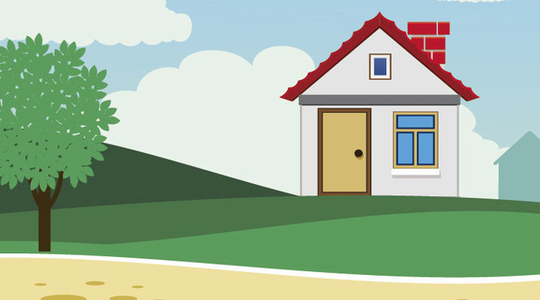
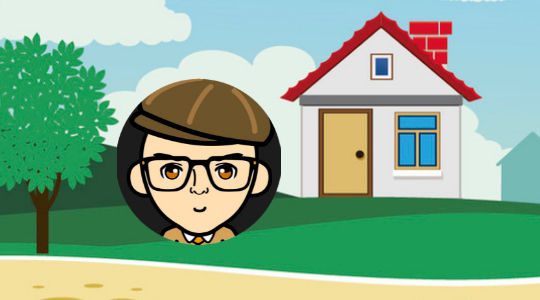
added mouseListener to npc pictures, fixed bugs in Hay Field and Airport. AB#952, AB#955, AB#915, AB#916

diff --git a/src/main/java/com/ChildrenOfSummer/SummerVacation/view/GamePanel.java b/src/main/java/com/ChildrenOfSummer/SummerVacation/view/GamePanel.java
@@ -1,6 +1,7 @@
 package com.ChildrenOfSummer.SummerVacation.view;
 
 import com.ChildrenOfSummer.SummerVacation.FileManager;
+import com.ChildrenOfSummer.SummerVacation.Input;
 import com.ChildrenOfSummer.SummerVacation.Player;
 import org.json.simple.JSONArray;
 
@@ -42,6 +43,7 @@ public class GamePanel extends JFrame {
     public JButton arriveSpecialSceneNextButton;
     public static JButton taskScreenNextButton;
     public JButton explorePlayerHouseButton;
+    public JButton goTOHayFieldNextButton;
     public JButton exploreHayFieldButton;
     public JButton hayfieldNextButton;
     public JButton findSaraButton;
@@ -66,6 +68,7 @@ public class GamePanel extends JFrame {
     public JPanel exploreButtonPanel;
     public static JPanel taskScreenNextButtonPanel;
     public JPanel explorePlayerHouseButtonPanel;
+    public JPanel goToHayFieldNextButtonPanel;
     public JPanel exploreHayFieldButtonPanel;
     public JPanel hayfieldNextButtonPanel;
     public JPanel findSaraButtonPanel;
@@ -151,10 +154,11 @@ public class GamePanel extends JFrame {
         userInputPanel = createJPanel(20,480,300,60,Color.black,true);
         headerContentPanel = createJPanel(0,0,800,30, new Color(0,0,0,0),true);
         directionButtonPanel = createJPanel(600,290,144,144,Color.black,true);
-        inventoryPanel = createJPanel(620,50,120,250,Color.black,true);
+        inventoryPanel = createJPanel(620,50,120,200,Color.black,true);
         largeTextAreaPanel = createJPanel(20,60,740,420,Color.black,true);
         exploreButtonPanel = createJPanel(600,450,180,40,new Color(0,0,0,0),true);
         explorePlayerHouseButtonPanel = createJPanel(600,450,180,40,new Color(0,0,0,0),true);
+        goToHayFieldNextButtonPanel = createJPanel(600,450,180,40,new Color(0,0,0,0),true);
         exploreHayFieldButtonPanel = createJPanel(600,450,180,40,new Color(0,0,0,0),true);
         taskScreenNextButtonPanel = createJPanel(600,420,180,40,new Color(0,0,0,0),true);
         hayfieldNextButtonPanel = createJPanel(600,420,180,40,new Color(0,0,0,0),true);
@@ -176,11 +180,12 @@ public class GamePanel extends JFrame {
         helpButton = createJButton("HELP",80,30,false,Color.white,Color.black);
         useButton = createJButton("use item",100,20,false,Color.white,Color.black);
         dropButton = createJButton("drop item",100,20,false,Color.white,Color.black);
-        exploreAirportButton = createJButton("GO TO AIRPORT",180,40,false,Color.white,Color.black);
+        exploreAirportButton = createJButton("GO TO AIRPORT",180,30,false,Color.white,Color.black);
         explorePlayerHouseButton = createJButton("GO TO Player's House",180,40,false,Color.white,Color.black);
         exploreHayFieldButton = createJButton("GO TO Hay Field",180,40,false,Color.white,Color.black);
         arriveSpecialSceneNextButton = createJButton("NEXT",100,30,false,Color.white,Color.black);
-        taskScreenNextButton = createJButton("GO TO TASK",180,40,false,Color.white,Color.black);
+        taskScreenNextButton = createJButton("Go Player's House",180,40,false,Color.white,Color.black);
+        goTOHayFieldNextButton = createJButton("Go Hay Field",180,40,false,Color.white,Color.black);
         hayfieldNextButton = createJButton("GO hay field",180,40,false,Color.white,Color.black);
         findSaraButton = createJButton("Look for Sara",180,40,false,Color.white,Color.black);
         findSuppliesButton = createJButton("Go Find Supplies",180,40,false,Color.white,Color.black);
@@ -292,7 +297,9 @@ public class GamePanel extends JFrame {
         seePeople.setForeground(Color.white);
         seePeople.setEditable(false);
         con.add(locationImgPanel);
+
         locationImgPanel.add(locationImgLabel);
+        Input.clickPic();
 
 
 
@@ -386,6 +393,7 @@ public class GamePanel extends JFrame {
         directionButtonPanel.setLayout(new BorderLayout());
 
 
+
         northButton.setPreferredSize(new Dimension(36,54));
         northButton.setBorderPainted(false);
         northButton.setContentAreaFilled(false);
@@ -440,8 +448,8 @@ public class GamePanel extends JFrame {
         JScrollPane pane = new JScrollPane(inventoryList);
 
         inventoryPanel.add(pane, BorderLayout.NORTH);
-        inventoryPanel.add(useButton, BorderLayout.WEST);
-        inventoryPanel.add(dropButton, BorderLayout.EAST);
+//        inventoryPanel.add(useButton, BorderLayout.WEST);
+//        inventoryPanel.add(dropButton, BorderLayout.EAST);
 
     }
 
@@ -537,17 +545,23 @@ public class GamePanel extends JFrame {
 
 
     public void taskThrowRockWithEnoughInventory() {
+        if(player1.getPlayerInventory().contains("rock")){
         mainLocationDescPanel.setVisible(false);
         userInputPanel.setVisible(false);
         directionButtonPanel.setVisible(false);
         inventoryPanel.setVisible(false);
+        locationImgPanel.setVisible(false);
         // String text =FileManager.txtFileToString("scene-one.txt");
 
         int reply1 = JOptionPane.showConfirmDialog(null, "You can throw a rock to escape. Do you want to?", "", JOptionPane.YES_NO_OPTION);
         if (reply1 == JOptionPane.YES_OPTION){
+            FileManager.getPlayerItems().remove("rock");
+            inventoryListModel.removeElement("rock");
             JOptionPane.showMessageDialog(null,"You've escaped from the farmer.","",JOptionPane.PLAIN_MESSAGE);
             taskScreen("scene-three-end");
+            FileManager.sceneWriter(true, "sceneThreePassed");
             hayfieldNextButtonPanel.setVisible(false);
+//            locationImgPanel.setVisible(false);
             con.add(findSaraButtonPanel);
             findSaraButtonPanel.add(findSaraButton);
         }
@@ -558,6 +572,20 @@ public class GamePanel extends JFrame {
 
         largeTextAreaPanel.add(largeTextArea);
         con.add(largeTextAreaPanel);
+        }
+        else{
+            JOptionPane.showMessageDialog(null,"You should explore the map to find something to throw at the farmer to distract him. \nA rock, maybe?", "", JOptionPane.PLAIN_MESSAGE);
+            mainTextPanel.setVisible(false);
+            mainLocationDescPanel.setVisible(false);
+            taskScreenNextButtonPanel.setVisible(false);
+            largeTextAreaPanel.setVisible(false);
+            locationImgPanel.setVisible(true);
+            mainLocationDescPanel.setVisible(true);
+            userInputPanel.setVisible(true);
+            directionButtonPanel.setVisible(true);
+            inventoryPanel.setVisible(true);
+            goToIslandButtonPanel.setVisible(false);
+        }
     }
     public static void taskPaddleRiverWithEnoughInventory() {
         if (player1.getPlayerInventory().contains("paddle")&&player1.getPlayerInventory().contains("raft") &&player1.getPlayerInventory().contains("shovel")){
@@ -587,7 +615,7 @@ public class GamePanel extends JFrame {
                 JOptionPane.showMessageDialog(null,"You paddle right. A massive boulder stops your progress... \nAfter dislodging your raft you are free.","",JOptionPane.PLAIN_MESSAGE);
             }
 
-            Object[] innerOrCenter = { "hug the inner bank", "center the raft" };
+            Object[] innerOrCenter = {"hug the inner bank", "center the raft"};
             int reply2 = JOptionPane.showOptionDialog(null, "The river curves left\nYou need to choose to hug the inner bank of center the raft in the river.",
                     "", JOptionPane.DEFAULT_OPTION, JOptionPane.PLAIN_MESSAGE, null, innerOrCenter, innerOrCenter[0]);
             if (reply2 == JOptionPane.YES_OPTION){
@@ -602,6 +630,11 @@ public class GamePanel extends JFrame {
                     "", JOptionPane.DEFAULT_OPTION, JOptionPane.PLAIN_MESSAGE, null, duckOrPaddle, duckOrPaddle[0]);
             if (reply3 == JOptionPane.YES_OPTION){
                 JOptionPane.showMessageDialog(null,"The branches puncture holes in your raft!","",JOptionPane.PLAIN_MESSAGE);
+                clearZoneViewPanel();
+                taskScreen("win-text");
+                FileManager.sceneWriter(true, "sceneFivePassed");
+                JOptionPane.showMessageDialog(null,"You won the game!", "", JOptionPane.PLAIN_MESSAGE);
+                exploreRiverButtonPanel.setVisible(false);
             }
             else{
                 JOptionPane.showMessageDialog(null,"You push the thorny branches out of the way of your raft.","",JOptionPane.PLAIN_MESSAGE);
@@ -609,11 +642,12 @@ public class GamePanel extends JFrame {
                 taskScreen("win-text");
                 FileManager.sceneWriter(true, "sceneFivePassed");
                 JOptionPane.showMessageDialog(null,"You won the game!", "", JOptionPane.PLAIN_MESSAGE);
+                exploreRiverButtonPanel.setVisible(false);
 //                largeTextAreaPanel.add(largeTextArea);
 //                con.add(largeTextAreaPanel);
 //                largeTextArea.setText(FileManager.txtFileToString("win-text.txt"));
 //                goToIslandButtonPanel.setVisible(false);
-                System.exit(0);
+  //              System.exit(0);
             }
 
         }

diff --git a/src/main/java/com.ChildrenOfSummer.SummerVacation/Input.java b/src/main/java/com.ChildrenOfSummer.SummerVacation/Input.java
@@ -6,7 +6,8 @@ import org.json.simple.JSONArray;
 import org.json.simple.JSONObject;
 
 import javax.swing.*;
-import java.awt.event.ActionEvent;
+import java.awt.event.MouseEvent;
+import java.awt.event.MouseListener;
 import java.awt.event.WindowAdapter;
 import java.awt.event.WindowEvent;
 import java.util.*;
@@ -165,16 +166,38 @@ public class Input {
             }
         });
 
-        gamePanel.useButton.addActionListener(e -> JOptionPane.showMessageDialog(null,"Nothing happens...", "", JOptionPane.PLAIN_MESSAGE));
+        gamePanel.myCurrentTaskButton.addActionListener(e -> {
+
+                    if (!FileManager.sceneReader("sceneOnePassed")) {
+                        JOptionPane.showMessageDialog(null, "Go to Airport, remember to collect something before go there. \nGood luck!", "", JOptionPane.PLAIN_MESSAGE);
+                    } else if (FileManager.sceneReader("sceneOnePassed") && !FileManager.sceneReader("sceneTwoPassed")) {
+                        JOptionPane.showMessageDialog(null, "Go to Player's House", "", JOptionPane.PLAIN_MESSAGE);
+                    } else if (FileManager.sceneReader("sceneOnePassed") && FileManager.sceneReader("sceneTwoPassed") && !FileManager.sceneReader("sceneThreePassed")) {
+                        JOptionPane.showMessageDialog(null, "Go to Hay Field", "", JOptionPane.PLAIN_MESSAGE);
+                    }
+                    else if (FileManager.sceneReader("sceneOnePassed") && FileManager.sceneReader("sceneTwoPassed") && FileManager.sceneReader("sceneThreePassed")
+                    && !FileManager.sceneReader("sceneFourPassed")){
+                        JOptionPane.showMessageDialog(null, "Look for Sara", "", JOptionPane.PLAIN_MESSAGE);
+                    }
+                    else if (FileManager.sceneReader("sceneOnePassed") && FileManager.sceneReader("sceneTwoPassed") && FileManager.sceneReader("sceneThreePassed")
+                            && FileManager.sceneReader("sceneFourPassed") && !FileManager.sceneReader("sceneFivePassed")){
+                        JOptionPane.showMessageDialog(null, "Go to river", "", JOptionPane.PLAIN_MESSAGE);
+                    }
+
+                }
+
+        );
+
+       // gamePanel.useButton.addActionListener(e -> JOptionPane.showMessageDialog(null,"Nothing happens...", "", JOptionPane.PLAIN_MESSAGE));
 
 
         gamePanel.exploreAirportButton.addActionListener(e ->
                 {
                     if (FileManager.getPlayerItems().contains("rope") && !FileManager.getPlayerItems().contains("planks")) {
-                        JOptionPane.showMessageDialog(null, "It looks like you have a rope in your bag! You may need something to make a ladder by combining something " +
+                        JOptionPane.showMessageDialog(null, "It looks like you have a rope in your bag! \nYou may need something to make a ladder by combining something " +
                                 "with the rope! Come back once you got the item!", "", JOptionPane.PLAIN_MESSAGE);
                     } else if (FileManager.getPlayerItems().contains("planks") && !FileManager.getPlayerItems().contains("rope")) {
-                        JOptionPane.showMessageDialog(null, "It looks like you have planks in your bag! You may need something to make a ladder by combining something " +
+                        JOptionPane.showMessageDialog(null, "It looks like you have planks in your bag! \nYou may need something to make a ladder by combining something " +
                                 "with the planks! Come back once you got the item!", "", JOptionPane.PLAIN_MESSAGE);
                     } else if (FileManager.getPlayerItems().contains("rope") && FileManager.getPlayerItems().contains("planks")) {
                         gamePanel.arriveSpecialScene("scene-one");
@@ -209,13 +232,25 @@ public class Input {
                     gamePanel.clearZoneViewPanel();
                     gamePanel.explorePlayerHouseButtonPanel.setVisible(false);
                     gamePanel.taskScreen("scene-two");
-                    gamePanel.taskScreenNextButtonPanel.setVisible(true);
-                    gamePanel.taskScreenNextButtonPanel.add(gamePanel.taskScreenNextButton);
-                    gamePanel.con.add(gamePanel.taskScreenNextButtonPanel);
+                    gamePanel.taskScreenNextButtonPanel.setVisible(false);
+                    gamePanel.goToHayFieldNextButtonPanel.add(gamePanel.goTOHayFieldNextButton);
+                    gamePanel.con.add(gamePanel.goToHayFieldNextButtonPanel);
                     FileManager.sceneWriter(true, "sceneTwoPassed");
-                    JOptionPane.showMessageDialog(null,"You arrived and completed task", "", JOptionPane.PLAIN_MESSAGE);
+
                 }
         );
+
+        gamePanel.goTOHayFieldNextButton.addActionListener(e->{
+            gamePanel.mainTextPanel.setVisible(false);
+            gamePanel.taskScreenNextButtonPanel.setVisible(false);
+            gamePanel.largeTextAreaPanel.setVisible(false);
+            gamePanel.locationImgPanel.setVisible(true);
+            gamePanel.mainLocationDescPanel.setVisible(true);
+            gamePanel.userInputPanel.setVisible(true);
+            gamePanel.directionButtonPanel.setVisible(true);
+            gamePanel.inventoryPanel.setVisible(true);
+            gamePanel.goToHayFieldNextButtonPanel.setVisible(false);
+        });
 
         gamePanel.exploreHayFieldButton.addActionListener(e->{
                     gamePanel.clearZoneViewPanel();
@@ -225,12 +260,12 @@ public class Input {
                     gamePanel.hayfieldNextButtonPanel.setVisible(true);
                     gamePanel.hayfieldNextButtonPanel.add(gamePanel.hayfieldNextButton);
                     gamePanel.exploreHayFieldButtonPanel.setVisible(false);
-                    FileManager.sceneWriter(true, "sceneThreePassed");
-                    JOptionPane.showMessageDialog(null,"You arrived and completed task", "", JOptionPane.PLAIN_MESSAGE);
+
+
                 }
         );
-        gamePanel.hayfieldNextButton.addActionListener(e-> gamePanel.taskThrowRockWithEnoughInventory()
-
+        gamePanel.hayfieldNextButton.addActionListener(e->
+                gamePanel.taskThrowRockWithEnoughInventory()
         );
 
         gamePanel.findSaraButton.addActionListener(e->{
@@ -276,7 +311,53 @@ public class Input {
 
         );
 
+
     }
+
+    public static void clickPic(){
+        JPopupMenu popMenu = new JPopupMenu();
+        JMenuItem item1 = new JMenuItem("talk");
+        item1.addActionListener(e->{
+        if(FileManager.getNPCsName(player1.getPlayerLocation()).size()> 0){
+            // npc name
+            JSONArray NPCname = FileManager.getNPCsName(player1.getPlayerLocation());
+
+            //npc dialogue
+            String dialogue = FileManager.getNPCsDialog((String) NPCname.get(0),1);
+            System.out.println(dialogue);
+
+            String a = TextToSpeech.talkNpc(dialogue);
+
+        System.out.println(a);}
+        else{
+        String a = TextToSpeech.talkNpc("There was no one to talk to");
+        }
+        });
+
+        popMenu.add(item1);
+
+        gamePanel.locationImgLabel.addMouseListener(new MouseListener() {
+            @Override
+            public void mouseClicked(MouseEvent e) {}
+
+            @Override
+            public void mousePressed(MouseEvent e) {
+                if(SwingUtilities.isRightMouseButton(e)){
+                    popMenu.show(gamePanel.locationImgLabel,e.getX(),e.getY());
+                }
+            }
+
+            @Override
+            public void mouseReleased(MouseEvent e) {}
+
+            @Override
+            public void mouseEntered(MouseEvent e) {}
+
+            @Override
+            public void mouseExited(MouseEvent e) {}
+        });
+    }
+
 
     public static void goDirection(String direction){
         boolean didMove = false;
